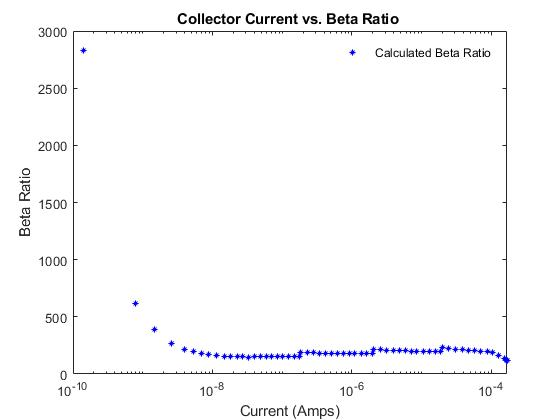
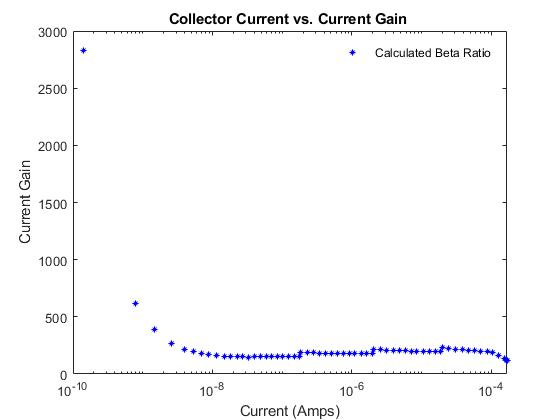
updates to exp2

Changed region(s): [[0.3036, 0.031, 0.7286, 0.0619], [0.0304, 0.3714, 0.0607, 0.5881]]

diff --git a/Lab_3_Resistors_and_Bipolar_Transistors/data_and_code/Exp1_plot.m b/Lab_3_Resistors_and_Bipolar_Transistors/data_and_code/Exp1_plot.m
@@ -43,9 +43,9 @@ Beta_Exp1 = Ic ./ Ib;
 semilogx(Ib, Beta_Exp1,'b*','MarkerSize',4);
 
 %Labels
-title( "Collector Current vs. Beta Ratio ");
+title( "Collector Current vs. Current Gain ");
 xlabel("Current (Amps)");
-ylabel("Beta Ratio");
+ylabel("Current Gain");
 
 legend('Calculated Beta Ratio')
 legend('boxoff')
